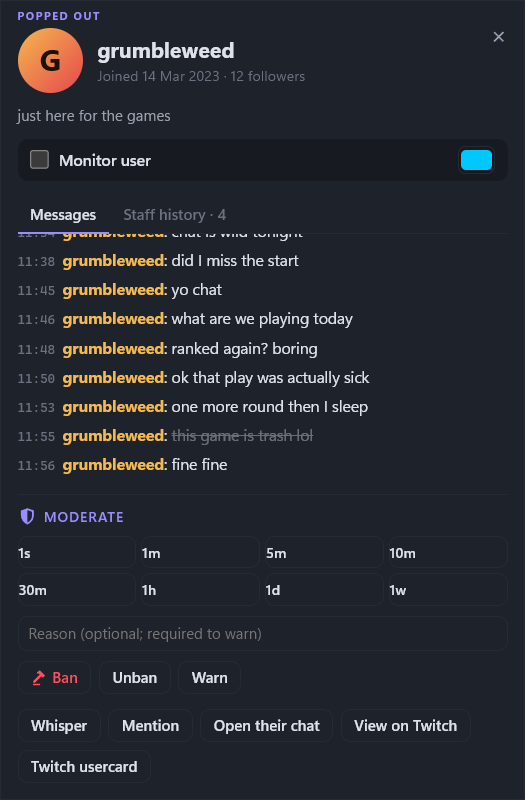
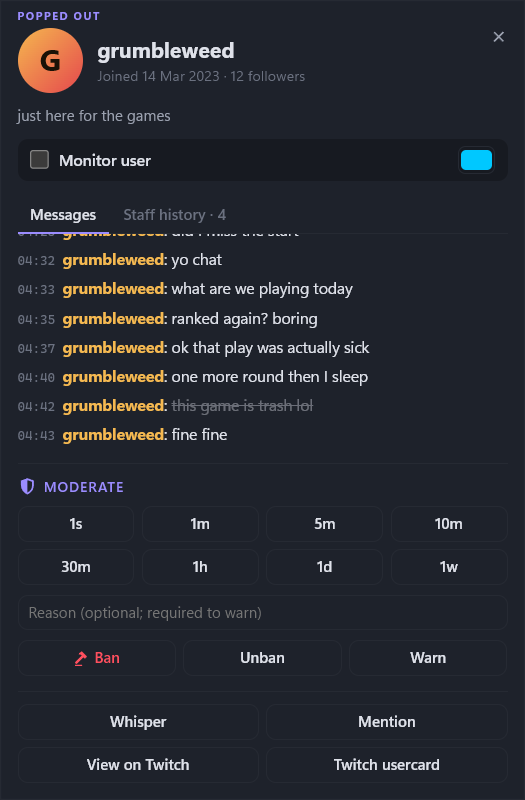
Update website

diff --git a/docs/index.html b/docs/index.html
@@ -42,7 +42,7 @@
   "description": "A fast, free Twitch chat client for Windows with tabs and splits, 7TV, BetterTTV and FrankerFaceZ emotes, and one-click moderation tools including AutoMod, staff history and user cards.",
   "applicationCategory": "CommunicationApplication",
   "operatingSystem": "Windows 10, Windows 11",
-  "softwareVersion": "1.21.6",
+  "softwareVersion": "1.21.7",
   "releaseNotes": "https://chattler.net/#releases",
   "downloadUrl": "https://chattler.net/#download",
   "installUrl": "https://chattler.net/#download",
@@ -259,11 +259,11 @@
     </div>
     <div class="uc-shots">
       <figure>
-        <img src="assets/card-messages.png?v=2026-09-30" alt="A user card for grumbleweed on the Messages tab, listing their recent chat messages with one deleted message struck through, and moderation buttons below." width="525" height="800" loading="lazy">
+        <img src="assets/card-messages.png?v=2026-10-01" alt="A user card for grumbleweed on the Messages tab, listing their recent chat messages with one deleted message struck through, and moderation buttons below." width="525" height="800" loading="lazy">
         <figcaption>Messages</figcaption>
       </figure>
       <figure>
-        <img src="assets/card-staff.png?v=2026-09-30" alt="The same user card on the Staff history tab: currently timed out, two timeouts, a deleted message and a warning, each with the moderator, reason and date." width="525" height="800" loading="lazy">
+        <img src="assets/card-staff.png?v=2026-10-01" alt="The same user card on the Staff history tab: currently timed out, two timeouts, a deleted message and a warning, each with the moderator, reason and date." width="525" height="800" loading="lazy">
         <figcaption>Staff history</figcaption>
       </figure>
     </div>

diff --git a/docs/screenshots/index.html b/docs/screenshots/index.html
@@ -63,14 +63,14 @@
 
   <div class="shot-row">
     <figure class="shot">
-      <a href="../assets/shots/usercard-messages.png?v=2026-09-30" target="_blank" rel="noopener">
-        <img src="../assets/shots/usercard-messages.png?v=2026-09-30" alt="A user card showing someone's recent messages, with moderation buttons below." width="525" height="800" loading="lazy">
+      <a href="../assets/shots/usercard-messages.png?v=2026-10-01" target="_blank" rel="noopener">
+        <img src="../assets/shots/usercard-messages.png?v=2026-10-01" alt="A user card showing someone's recent messages, with moderation buttons below." width="525" height="800" loading="lazy">
       </a>
       <figcaption><b>User card</b> Their recent messages, Monitor user, and one-click timeouts, ban, unban and warn - with a reason.</figcaption>
     </figure>
     <figure class="shot">
-      <a href="../assets/shots/usercard-staff.png?v=2026-09-30" target="_blank" rel="noopener">
-        <img src="../assets/shots/usercard-staff.png?v=2026-09-30" alt="The Staff history tab of a user card: current standing, totals, and each past action with the moderator and reason." width="525" height="800" loading="lazy">
+      <a href="../assets/shots/usercard-staff.png?v=2026-10-01" target="_blank" rel="noopener">
+        <img src="../assets/shots/usercard-staff.png?v=2026-10-01" alt="The Staff history tab of a user card: current standing, totals, and each past action with the moderator and reason." width="525" height="800" loading="lazy">
       </a>
       <figcaption><b>Staff history</b> Every timeout, ban, deletion and warning for that person - who did it, when and why - shared with your mod team.</figcaption>
     </figure>

diff --git a/docs/guide/guide.md b/docs/guide/guide.md
@@ -250,7 +250,7 @@ Click any **username** (or an `@mention`) to open their card.
 - **Messages** - what they've said in this chat this session, with deleted ones struck through.
 - **Staff history** tab - *mods only*, see [Staff history](#staff-history).
 - **Moderate** panel - *mods only*.
-- **Whisper**, **Mention**, **Open their chat**, **View on Twitch**.
+- **Whisper**, **Mention**, **View on Twitch**.
 - **Twitch usercard** - opens Twitch's own card for that person in this channel, in your browser. It holds the history Twitch keeps: their messages and the bans and timeouts from before you were watching, which Chattler cannot see. Moderators get the moderation part of it; anyone can see the rest.
 
 **Moving and resizing**
